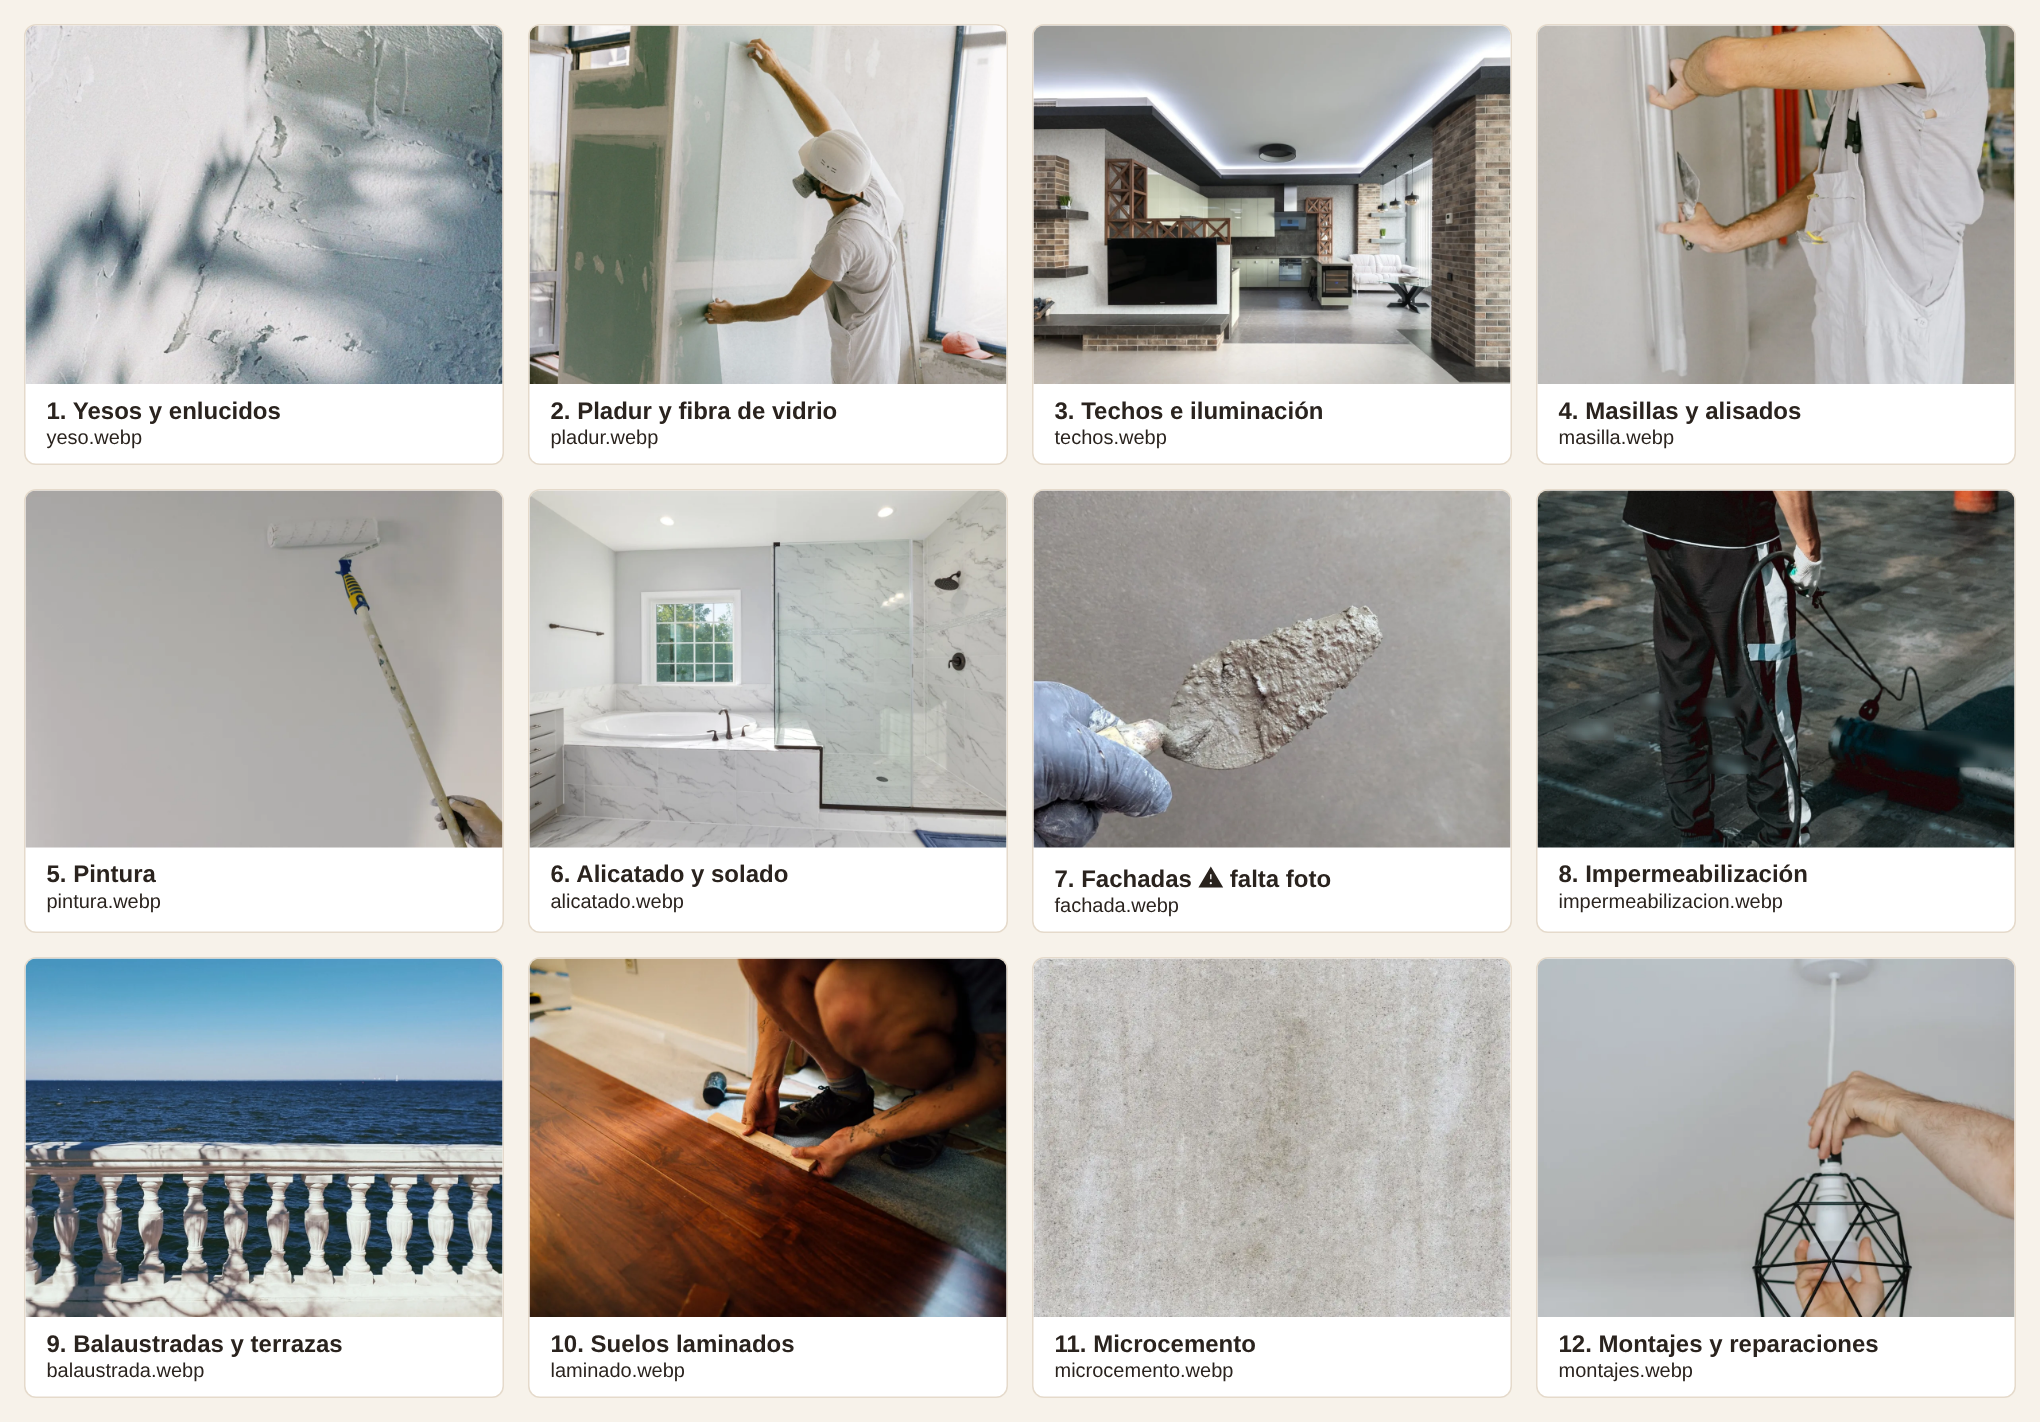
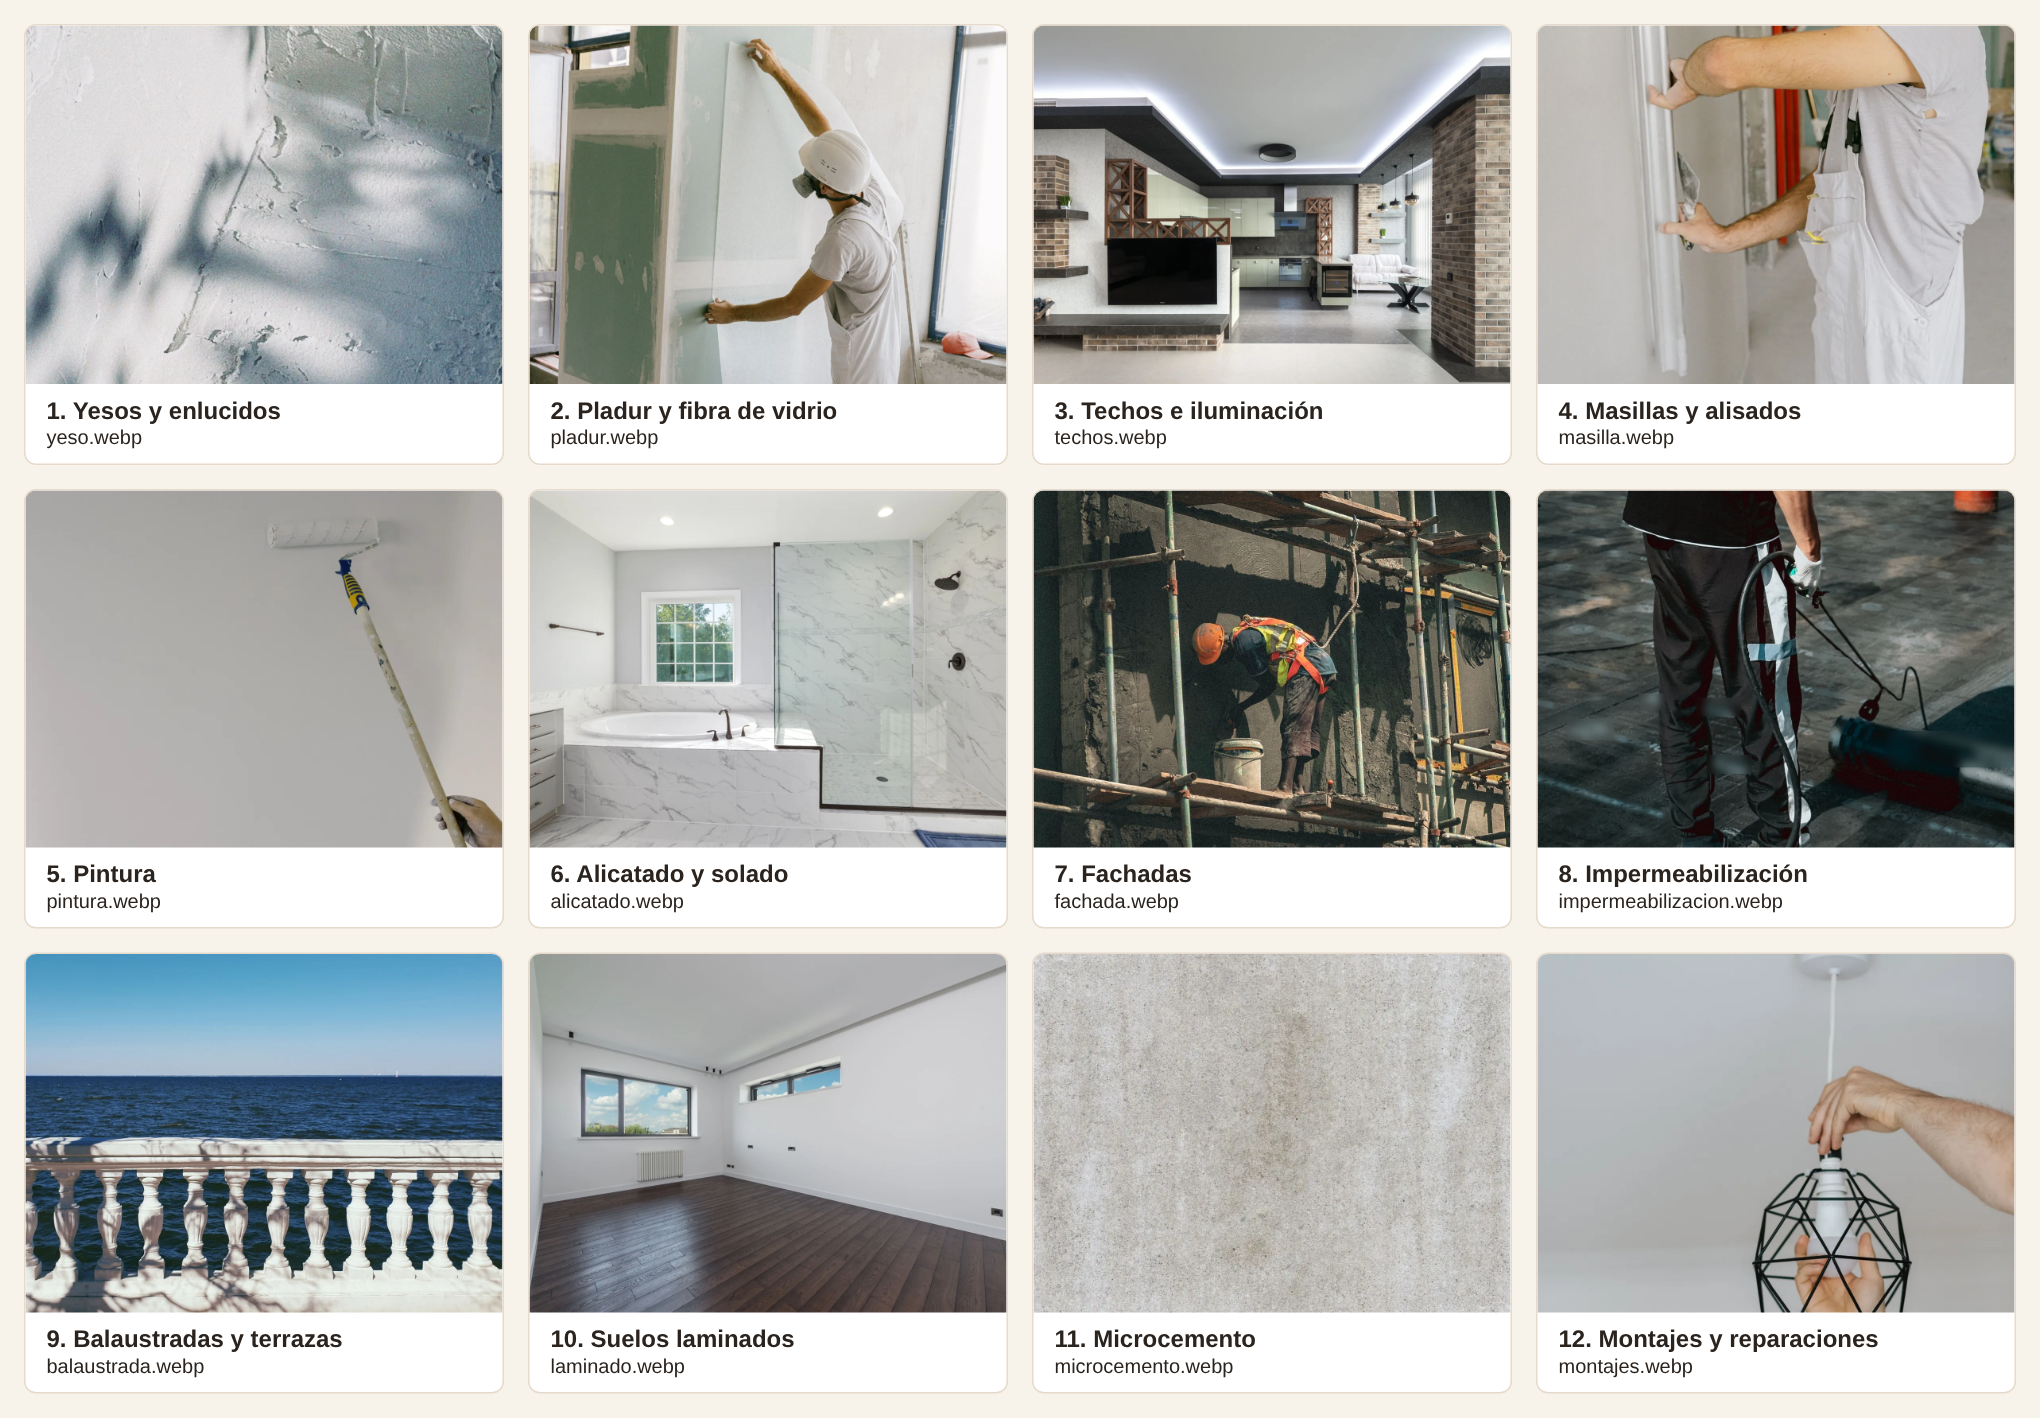
Laminado нове фото; фінальний список карток
Claude-Session: https://claude.ai/code/session_01UyCPKmgzHuAWchCuwT9tNT

diff --git a/it/proekt-budivelnyi-sait.md b/it/proekt-budivelnyi-sait.md
@@ -45,3 +45,7 @@
 - 12 карток: `it/proekt-img/cards/*.webp` (1200×900), джерела в `fuentes.txt`.
 - Портфоліо «Proyectos» — спільне від компанії (без «я/брат»), фото пізніше від брата.
 - Акцент-колір кандидат: помаранчевий; для кнопок з білим текстом — #b8541a (контраст 4.86:1).
+
+## Фінальні фото карток (29.10.2026) — `it/proekt-img/cards/`
+1 yeso — декоративна фактурна штукатурка з тінями листя · 2 pladur — зелений пладур + склополотно (майстер у масці) · 3 techos — LED-уступ, вітальня з кухнею (обрізка користувача) · 4 masilla — широка гладилка, Antoni Shkraba · 5 pintura — валик, Ksenia Chernaya · 6 alicatado — ванна з мармуровою плиткою · 7 fachada — риштування, akoonie · 8 impermeabilizacion — тела + пальник, написи прибрано · 9 balaustrada — біла, море · 10 laminado — світла кімната, темний ламінат · 11 microcemento — гладка сіра · 12 montajes — люстра.
+Назви: «Yesos y enlucidos» (+ «a mano»), «Pladur y fibra de vidrio».
